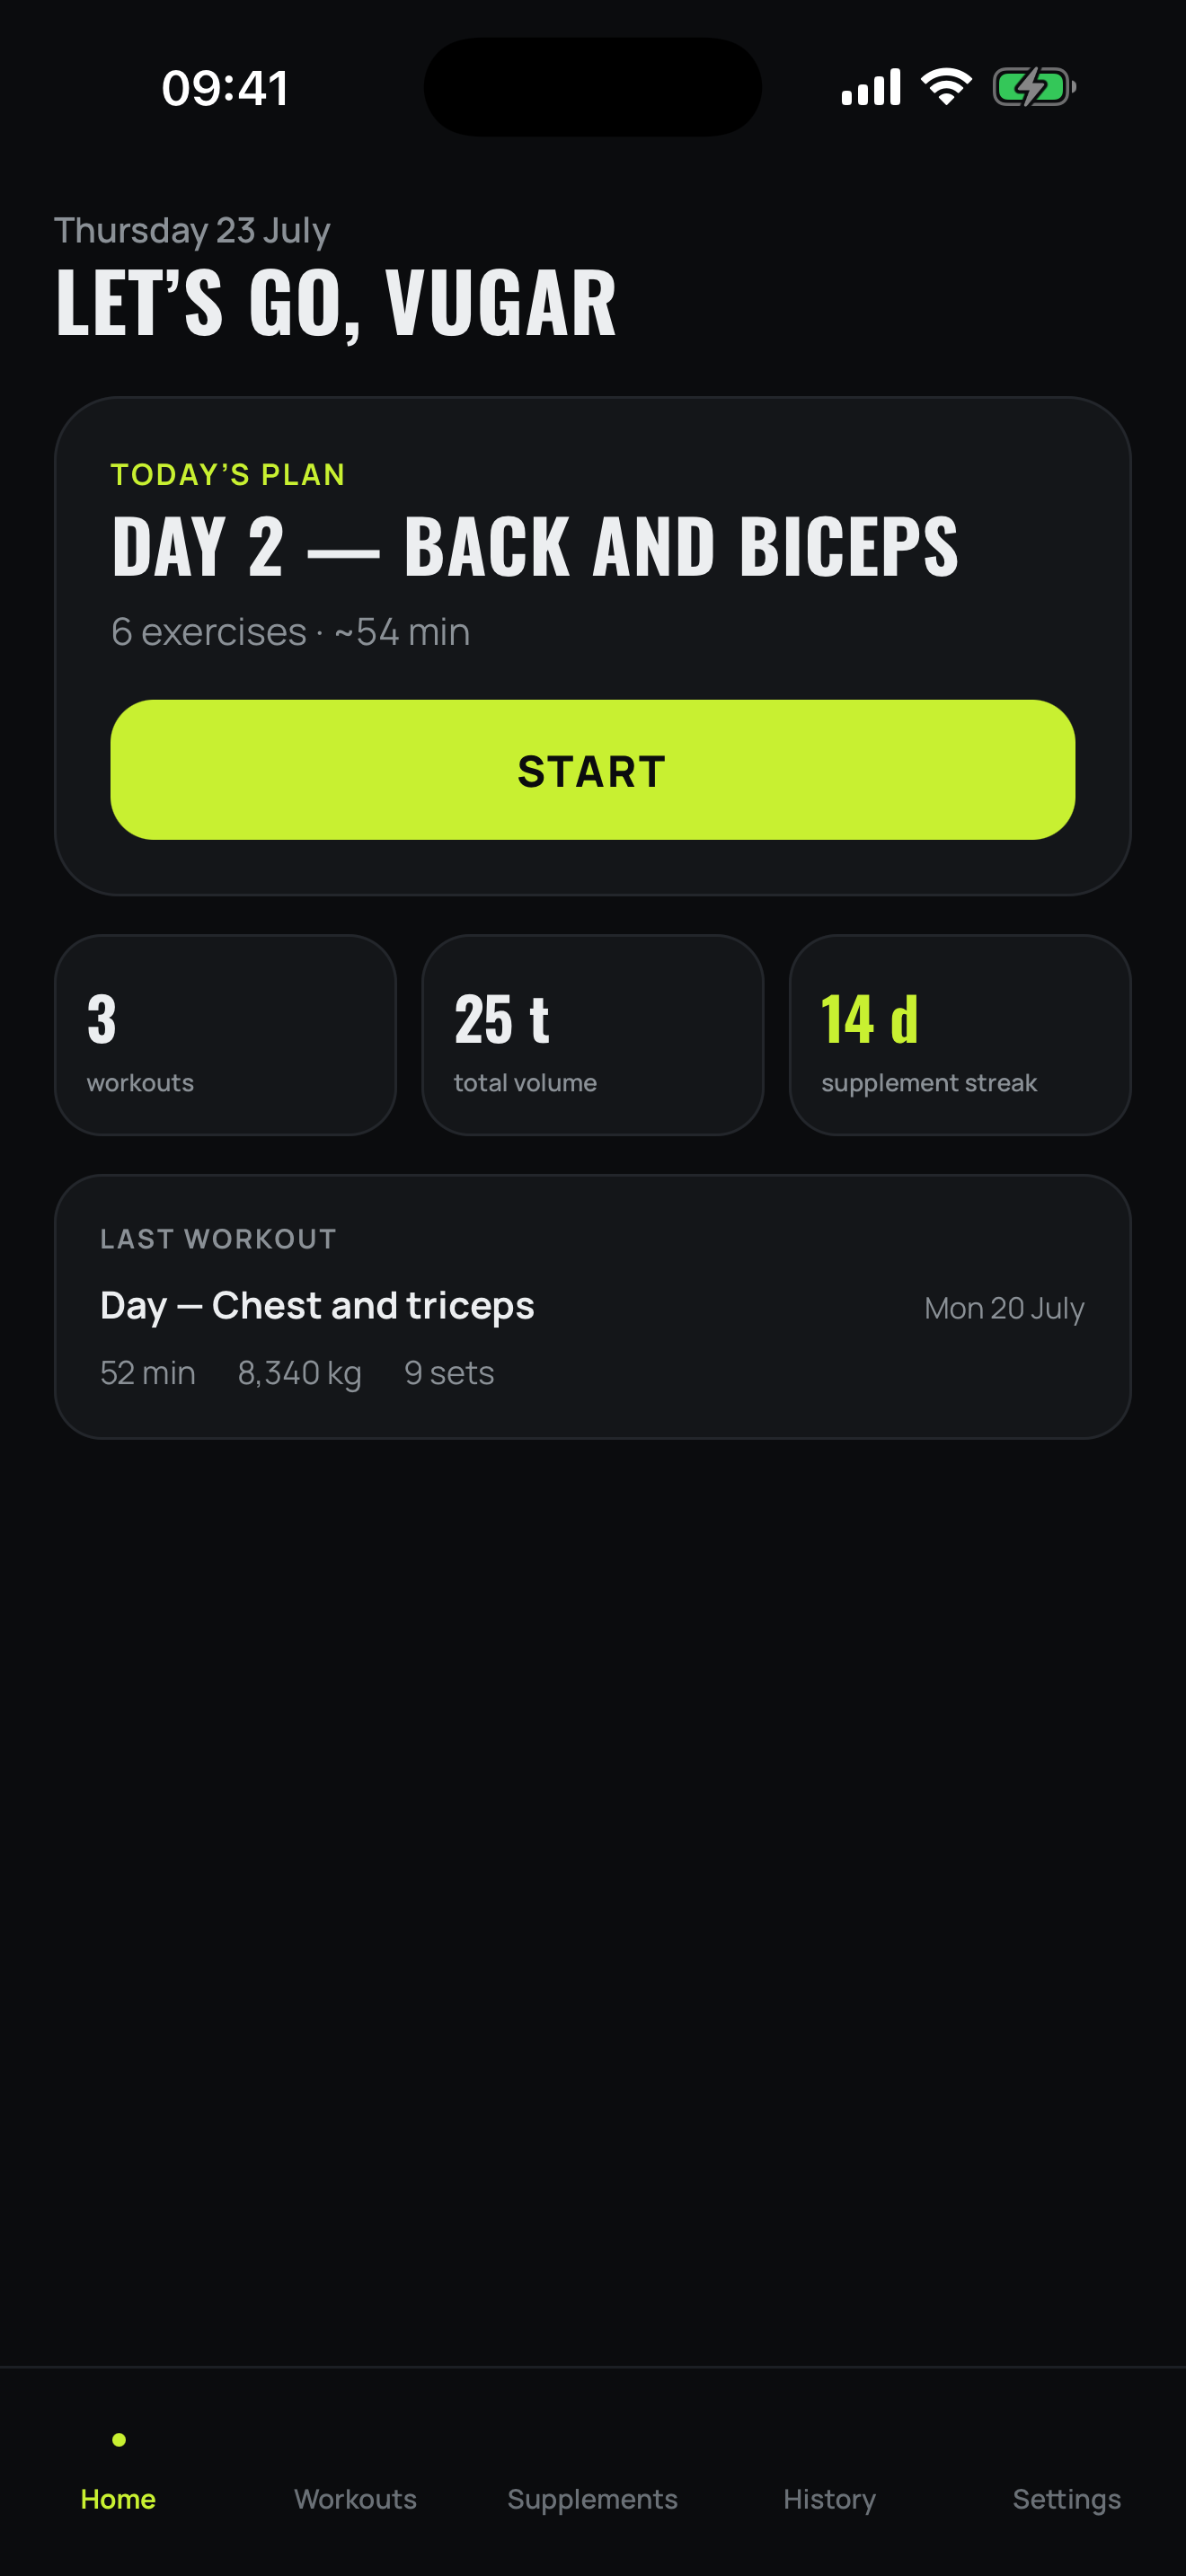
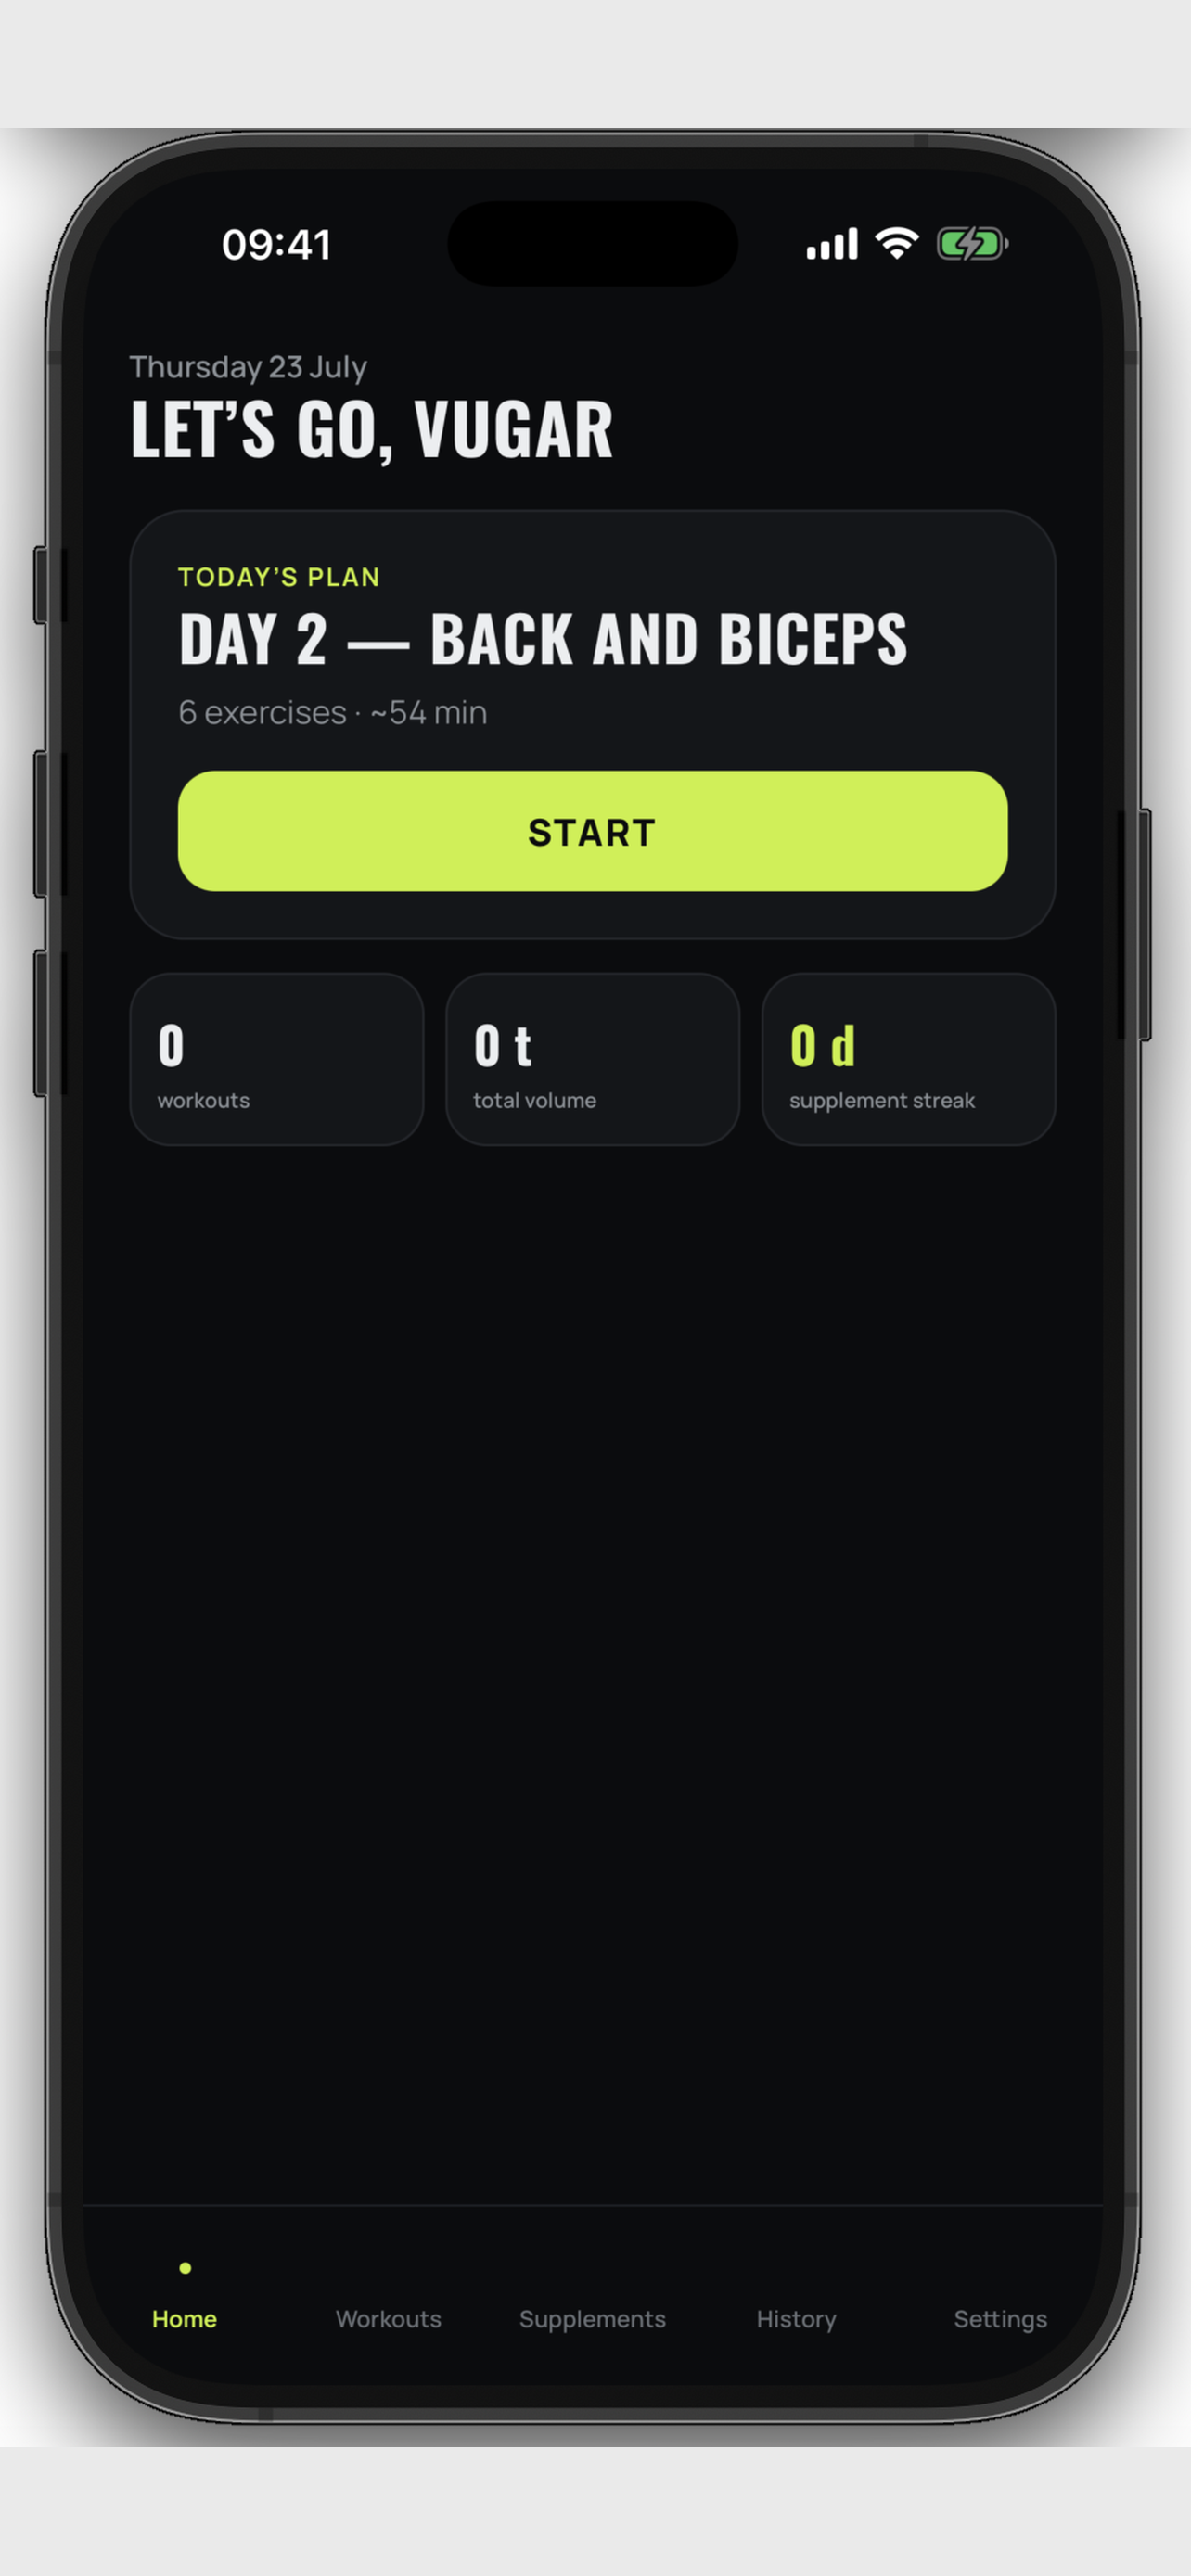
docs(state): Gymbar отправлен на ревью в App Store
Новый набор скриншотов (1284×2778, полный телефон без обрезки по бокам),
карточка ASC заполнена и приложение подано на ревью.

diff --git a/docs/state/gym-tracker-mobile.md b/docs/state/gym-tracker-mobile.md
@@ -2,22 +2,27 @@
 campaign: gym-tracker-mobile
 status: active
 started: 2026-07-22
-updated: 2026-07-23 14:50
+updated: 2026-07-23 15:20
 ---
 
 # Gym Tracker → Expo/React Native
 
 ## Где сейчас
 
-Приложение готово и собрано. **Запись Gymbar заведена в App Store Connect** —
-app id `6793901080`, bundle `com.gymbar.app`, SKU `gymbar-001`. Сайт поддержки живой,
-карточка на трёх языках написана, скриншоты 6.9″ сняты. **Приложение установлено и работает на телефоне Вугара через TestFlight.**
-Build #1 и build #2 (с фиксом `en.common.done`) оба доступны, ставить надо второй.
-Всё в `main`, дерево чистое, синхронно с origin.
+**Gymbar отправлен на ревью в App Store** (23.07.2026, build #2). Карточка полностью заполнена
+руками Вугара в UI ASC: скриншоты (10 шт, 1284×2778, с полями сверху/снизу — телефон не обрезан
+по бокам), promo/description/keywords на RU/EN/UA, категория «Здоровье и фитнес», цена Free,
+App Privacy — Data Not Collected, возрастной рейтинг 4+, копирайт «2026 Vugar Hasanov».
+Ждём решения Apple — обычно 24–48 часов, придёт письмо на почту.
+
+**Отложено сознательно:** DSA (Digital Services Act, статус трейдера в ЕС) — Вугар решил
+разобраться с этим позже, на текущую отправку не блокирует.
 
 ## Next step
 
-Всё оставшееся — руками Вугара в UI App Store Connect, API этого не даёт:
+- [ ] Дождаться результата ревью Apple (approve / reject)
+- [ ] Если reject — разобрать причину, поправить и переотправить
+- [ ] Если approve — решить дальше руками Вугара в UI App Store Connect (API этого не даёт):
 
 1. Загрузить скриншоты из `docs/appstore/screenshots/` (iPhone 6.9", порядок по номерам)
 2. Вставить тексты из `docs/appstore/metadata.md` + оба URL сайта поддержки